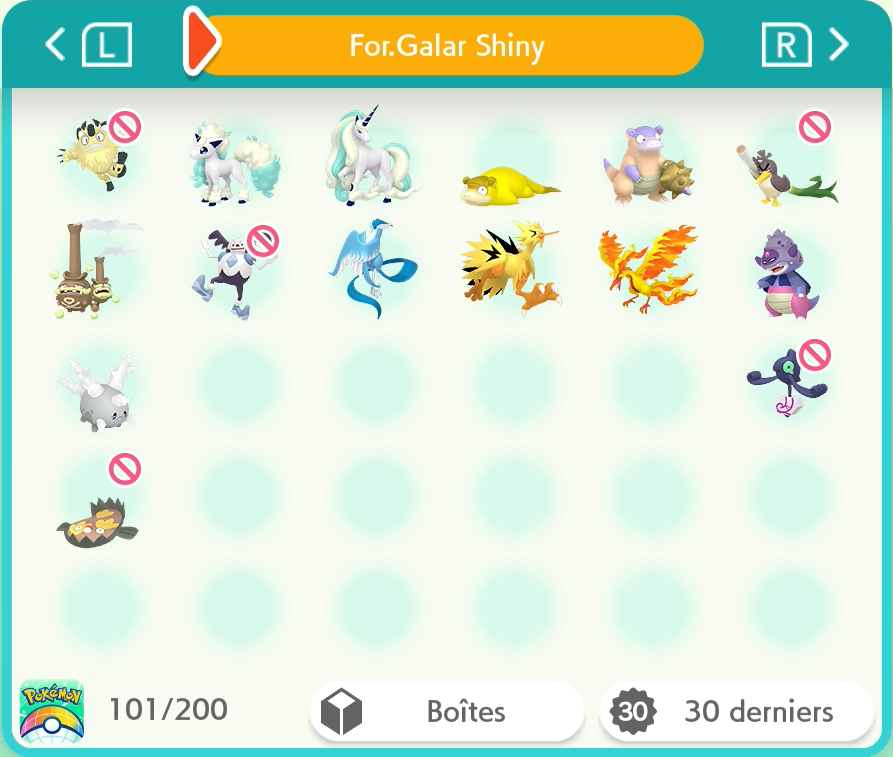
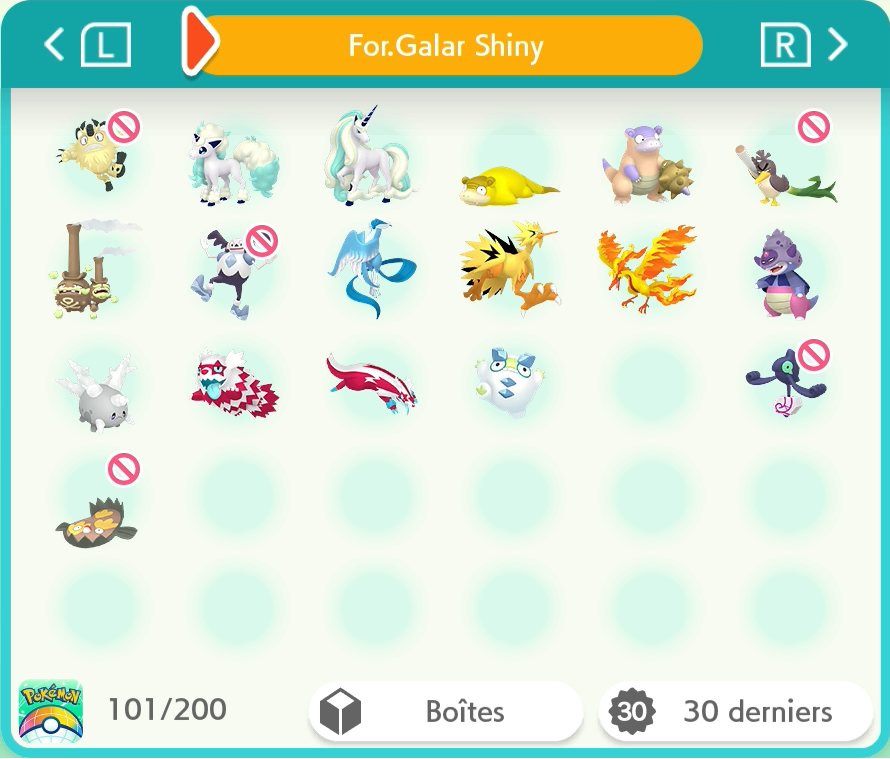
8G : Ixon | Formes de Galar : Zigzaton, Linéon & Darumarond

diff --git a/README.md b/README.md
@@ -3,7 +3,7 @@
 Pokémon-Elément-Sh -> <a href="https://www.pokemon-element-sh.fr/profil/karyno21" target="_blank">Karyno21</a>
 
 ↓ Dernière Update le 4/06/2026 à 13h11 ↓
-### Dex National [260/999] +24
+### Dex National [261/999] +25
 
 | Gen | Prog | Notes |
 |:--:|:--:|---|
@@ -14,15 +14,15 @@ Pokémon-Elément-Sh -> <a href="https://www.pokemon-element-sh.fr/profil/karyno
 |5G|28/154|+2 Funécire & Mélancolux|
 |6G|22/70|+1 Trousselin|
 |7G|16/84|J'ai deux Meltan Shiny mais impossible de le faire évolué en Melmétal... (pas compté)|
-|8G|32/90|+10 Distrib Zacian & Éthernatos, Fantyrm, Dispareptil, Lanssorien, M.Glaquette, Berserkatt, Tutétékri, Palarticho & Corayôme|
+|8G|32/90|+10 Distrib Zacian & Éthernatos, Fantyrm, Dispareptil, Lanssorien, M.Glaquette, Berserkatt, Tutétékri, Palarticho, Corayôme & Ixon|
 |9G|45/108|+3 Terraiste, Cryodo & Glaivodo|
 
-### Formes Régionales [54/58] +35
+### Formes Régionales [57/58] +38
 
 | Forme | Prog | Notes |
 |:--:|:--:|---|
 |Alola|18/18|+17 Complété (Familles de Rattata / Goupix / Racaillou / Sabelette / Tadmorv / Taupiqueur & Miaouss, Raichu & Noadkoko)|
-|Galar|15/19|+14 Famille de Ramoloss, Distrib des oiseaux légendaire de Galar, M.Mime, Miaouss, Tutafeh, Canarticho, Limonde, Smogogo, Ponyta, Galopa & Corayon|
+|Galar|18/19|+14 Famille de Ramoloss, Distrib des oiseaux légendaire de Galar, M.Mime, Miaouss, Tutafeh, Canarticho, Limonde, Smogogo, Ponyta, Galopa, Corayon, Zigzaton, Linéon & Darumarond|
 |Hisui|17/17|Complété|
 |Paldea|4/4|+3 Complété Axoloto, Tauros Aquatique & Flamboyant|
 
